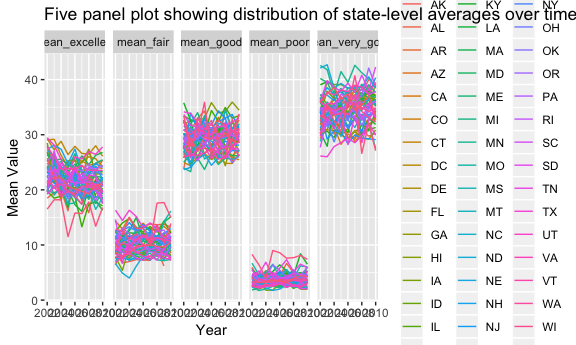
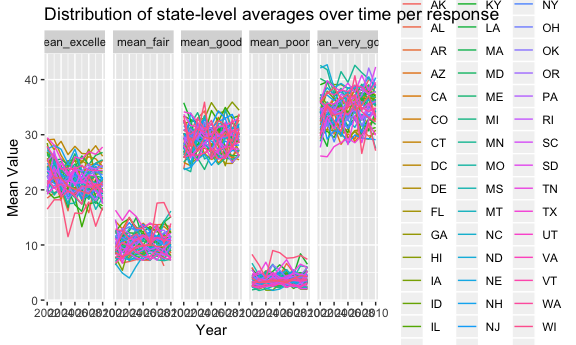
finished writing code (no explanation yet) for problem 2 + starting problem 3 (loading in data)

Changed region(s): [[0.0625, 0.029, 1.0, 0.087]]

diff --git a/hw_3_aik2136.md b/hw_3_aik2136.md
@@ -41,7 +41,7 @@ brfss_data %>%
   summarize(n_locations = n()) %>% 
   ggplot(aes(x = year, y = n_locations, color = state)) +
   labs(
-    title = "Spaghetti plot of number of locations in each state from 2002 - 2012",
+    title = "Number of locations in each state from 2002-2012",
     x = "Year",
     y = "Number of locations") +
   geom_line() +
@@ -85,7 +85,7 @@ brfss_data %>%
   gather(key = mean_variable, value = mean_value, mean_excellent:mean_poor) %>% 
   ggplot(aes(x = year, y = mean_value, color = state)) +
   labs(
-    title = "Five panel plot showing distribution of state-level averages over time",
+    title = "Distribution of state-level averages over time per response",
     x = "Year",
     y = "Mean Value") +
   geom_line() +
@@ -113,4 +113,82 @@ number_aisles =
   instacart_data %>% 
   distinct(aisle_id) %>% 
   nrow()
+
+instacart_data %>%
+  group_by(aisle) %>%
+  summarize(number_per_aisle = n()) %>%
+  arrange(desc(number_per_aisle)) %>%
+  head() %>%
+  knitr::kable()
+```
+
+| aisle                         |  number\_per\_aisle|
+|:------------------------------|-------------------:|
+| fresh vegetables              |              150609|
+| fresh fruits                  |              150473|
+| packaged vegetables fruits    |               78493|
+| yogurt                        |               55240|
+| packaged cheese               |               41699|
+| water seltzer sparkling water |               36617|
+
+##### Make a plot that shows the number of items ordered in each aisle. Order aisles sensibly, and organize your plot so others can read it.
+
+``` r
+instacart_data %>%
+  group_by(aisle, department) %>%
+  summarize(number_per_aisle = n()) %>%
+  ggplot(aes(x = aisle, y = number_per_aisle, color = department)) + 
+  labs(
+    title = "Number of items ordered per aisle",
+    x = "Aisle",
+    y = "Number per aisle") +
+  geom_point() +
+  facet_grid(~department)
+```
+
+<img src="hw_3_aik2136_files/figure-markdown_github/plot_aisles_2-1.png" width="90%" />
+
+##### Make a table showing the most popular item aisles “baking ingredients”, “dog food care”, and “packaged vegetables fruits”
+
+``` r
+instacart_data %>% 
+  filter(aisle == "baking ingredients" | aisle == "dog food care" | aisle == "packaged vegetables fruits") %>% 
+  group_by(aisle, product_name) %>% 
+  summarize(number_per_aisle = n()) %>% 
+  top_n(1, number_per_aisle) %>% 
+  arrange(desc(number_per_aisle)) %>% 
+  knitr::kable()
+```
+
+| aisle                      | product\_name                                 |  number\_per\_aisle|
+|:---------------------------|:----------------------------------------------|-------------------:|
+| packaged vegetables fruits | Organic Baby Spinach                          |                9784|
+| baking ingredients         | Light Brown Sugar                             |                 499|
+| dog food care              | Snack Sticks Chicken & Rice Recipe Dog Treats |                  30|
+
+##### Make a table showing the mean hour of the day at which Pink Lady Apples and Coffee Ice Cream are ordered on each day of the week; format this table for human readers (i.e. produce a 2 x 7 table).
+
+``` r
+instacart_data %>% 
+  filter(product_name == "Pink Lady Apples" | product_name == "Coffee Ice Cream") %>% 
+  select(product_name, order_dow, order_hour_of_day) %>% 
+  group_by(product_name, order_dow) %>% 
+  summarize(mean_order_hour = mean(order_hour_of_day)) %>% 
+  spread(key = order_dow, value = mean_order_hour) %>% 
+  knitr::kable()
+```
+
+| product\_name    |         0|         1|         2|         3|         4|         5|         6|
+|:-----------------|---------:|---------:|---------:|---------:|---------:|---------:|---------:|
+| Coffee Ice Cream |  13.77419|  14.31579|  15.38095|  15.31818|  15.21739|  12.26316|  13.83333|
+| Pink Lady Apples |  13.44118|  11.36000|  11.70213|  14.25000|  11.55172|  12.78431|  11.93750|
+
+Problem 3
+---------
+
+This problem uses the NY NOAA data.
+
+``` r
+ny_noaa_data = ny_noaa %>% 
+  janitor::clean_names()
 ```
